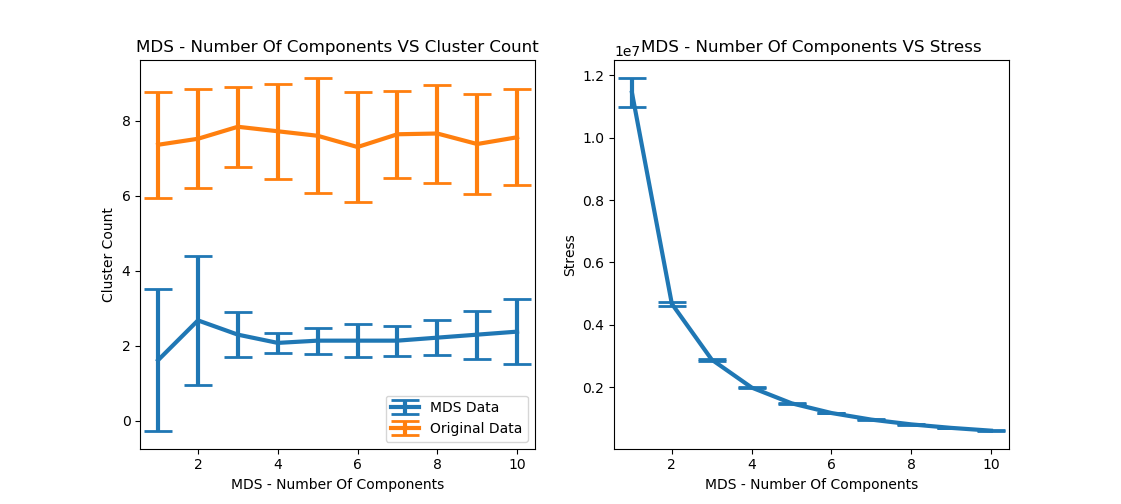
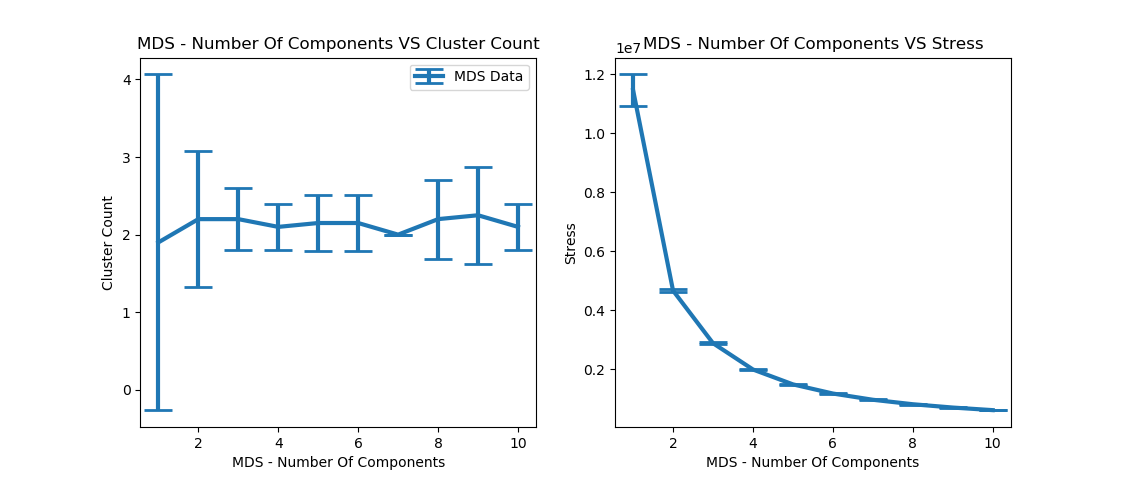
first commit

diff --git a/src/MDS-PerformanceOfComponentNumber.py b/src/MDS-PerformanceOfComponentNumber.py
@@ -1,6 +1,5 @@
 from matplotlib import pyplot as plt
 from sklearn.manifold import MDS
-from Preprocessing import optimalClusterCount
 from gap_statistic import OptimalK
 import numpy as np
 from DataGenerator import generateOneClusterData
@@ -13,17 +12,13 @@ mdsNumberOfComponentsRange = range(1, 11)
 meanStress = np.empty((10,))
 stdStress = np.empty((10,))
 
-meanClusterCountOrgData = np.empty((10,))
-stdClusterCountOrgData = np.empty((10,))
-
 meanClusterCount = np.empty((10,))
 stdClusterCount = np.empty((10,))
 
 for j, mdsNumberOfComponents in enumerate(mdsNumberOfComponentsRange):
 
-    nClusterCounts = 50
+    nClusterCounts = 20
     clusterCounts = np.empty((nClusterCounts,))
-    clusterCountsOrgData = np.empty((nClusterCounts,))
     stress = np.empty((nClusterCounts,))
 
     print("MDS Number of Components: {}".format(mdsNumberOfComponents))
@@ -43,14 +38,9 @@ for j, mdsNumberOfComponents in enumerate(mdsNumberOfComponentsRange):
         optimalK = OptimalK(parallel_backend='joblib', n_jobs=-1)
         clusterCount = optimalK(mdsData, n_refs=3, cluster_array=np.arange(1, 10))
         clusterCounts[i] = clusterCount
-        clusterCount = optimalK(data, n_refs=3, cluster_array=np.arange(1, 10))
-        clusterCountsOrgData[i] = clusterCount
     
     meanClusterCount[j] = np.mean(clusterCounts)
     stdClusterCount[j] = np.std(clusterCounts)
-
-    meanClusterCountOrgData[j] = np.mean(clusterCountsOrgData)
-    stdClusterCountOrgData[j] = np.std(clusterCountsOrgData)
 
     meanStress[j] = np.mean(stress)
     stdStress[j] = np.std(stress)
@@ -61,9 +51,7 @@ plt.title("MDS - Number Of Components VS Cluster Count")
 plt.xlabel("MDS - Number Of Components")
 plt.ylabel("Cluster Count")
 plt.errorbar(mdsNumberOfComponentsRange, meanClusterCount, yerr=stdClusterCount,
-            capthick=2, capsize=10, linewidth=3, label="MDS Data")
-plt.errorbar(mdsNumberOfComponentsRange, meanClusterCountOrgData, yerr=stdClusterCountOrgData,
-            capthick=2, capsize=10, linewidth=3, label="Original Data")            
+            capthick=2, capsize=10, linewidth=3, label="MDS Data")          
 plt.legend()            
 plt.subplot(1,2,2)        
 plt.title("MDS - Number Of Components VS Stress")

diff --git a/src/DataVisualization.py b/src/DataVisualization.py
@@ -1,5 +1,6 @@
 from matplotlib import pyplot as plt
 import numpy as np
+from sklearn.manifold import MDS
 from DataGenerator import generateOneClusterData
 from Settings import (DEFAULT_NUMBER_OF_FEATURES,
                         DEFAULT_NUMBER_OF_RECORDS_PER_CLASS,
@@ -9,14 +10,23 @@ from Settings import (DEFAULT_NUMBER_OF_FEATURES,
 data = generateOneClusterData(DEFAULT_NUMBER_OF_FEATURES,
                             DEFAULT_NUMBER_OF_RECORDS_PER_CLASS,
                             DEFAULT_FEATURE_MEAN_RANGE, 
-                            DEFAULT_RANDOM_NUMBER_SEED)
+                            DEFAULT_RANDOM_NUMBER_SEED,
+                            distribution="normal")
+
+mds = MDS(n_components=2, n_jobs=-1)
+mdsData = mds.fit_transform(data)
 
 OPACITY = 0.7
-plt.figure()
+plt.subplot(1,2,1)
 plt.title("Data Set")
 plt.xlabel("Feature 1")
 plt.ylabel("Feature 2")
 plt.scatter(data[:,0], data[:,1],
-            c=np.random.rand(1,3), alpha=OPACITY)
-plt.legend()            
+            c="blue", alpha=OPACITY)
+plt.subplot(1,2,2)
+plt.title("Data Set With MDS")
+plt.xlabel("MDS Feature 1")
+plt.ylabel("MDS Feature 2")
+plt.scatter(mdsData[:,0], mdsData[:,1],
+            c="orange", alpha=OPACITY)            
 plt.show()                
